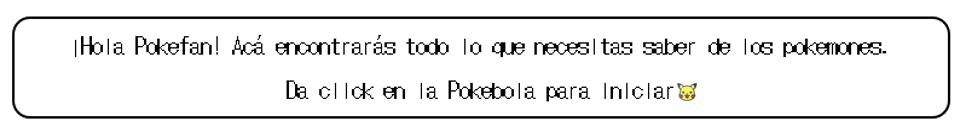
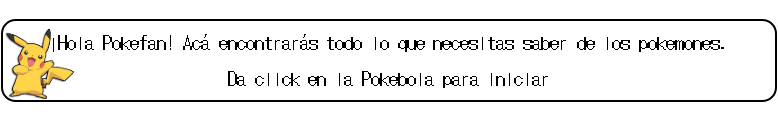
Dimensions

Changed region(s): [[0.0, 0.1181, 1.0, 0.874], [0.2776, 0.5669, 0.7404, 0.7559], [0.3702, 0.2598, 0.401, 0.2835]]

diff --git a/src/index.html b/src/index.html
@@ -10,14 +10,16 @@
     <section id= "section1">
       <img id="logo" src = "images/icons/pocket-logo.png"><br>
       <img id="pokebola1" src = "images/icons/pokebola.png"><br>
-      <img id="saludo" src="./images/saludo-inicio.png">    
+      <img id="saludo" src="./images/saludo-inicio.png">
     </section>
 
     <section id= "section2">
+      <img id="logo" src = "images/icons/pocket-logo.png"><br>
       
     </section>
 
     <section id= "section3">
+      <img id="logo" src = "images/icons/pocket-logo.png"><br> <br> <br> <br>
       
     </section>
 

diff --git a/src/style.css b/src/style.css
@@ -3,9 +3,29 @@
 #section3{display: none}
 
 #section1 {text-align: center;}
+#section2 {text-align: center;}
+#section3 {text-align: center;}
+
 
 body {
     background-image: url(./images/background.gif);
     background-size: cover;
     height: 100vh;
+}
+
+#saludo {
+    margin: auto;
+    width: 1200px;
+}
+
+#pokebola1 {
+    margin: auto;
+    width: 500px;
+    height: 500px;
+}
+
+#logo {
+    margin: auto;
+    width: 450px;
+    height: 200px;
 }

diff --git a/src/main.js b/src/main.js
@@ -10,7 +10,8 @@ let section3 = document.getElementById('section3');
 document.getElementById('pokebola1').addEventListener('click',ContinueSection2);
 
 function Ocultar(){
-    section1.style.display = 'none'
+ 
+   section1.style.display = 'none'
     section2.style.display = 'none'
     section3.style.display = 'none'
 }
